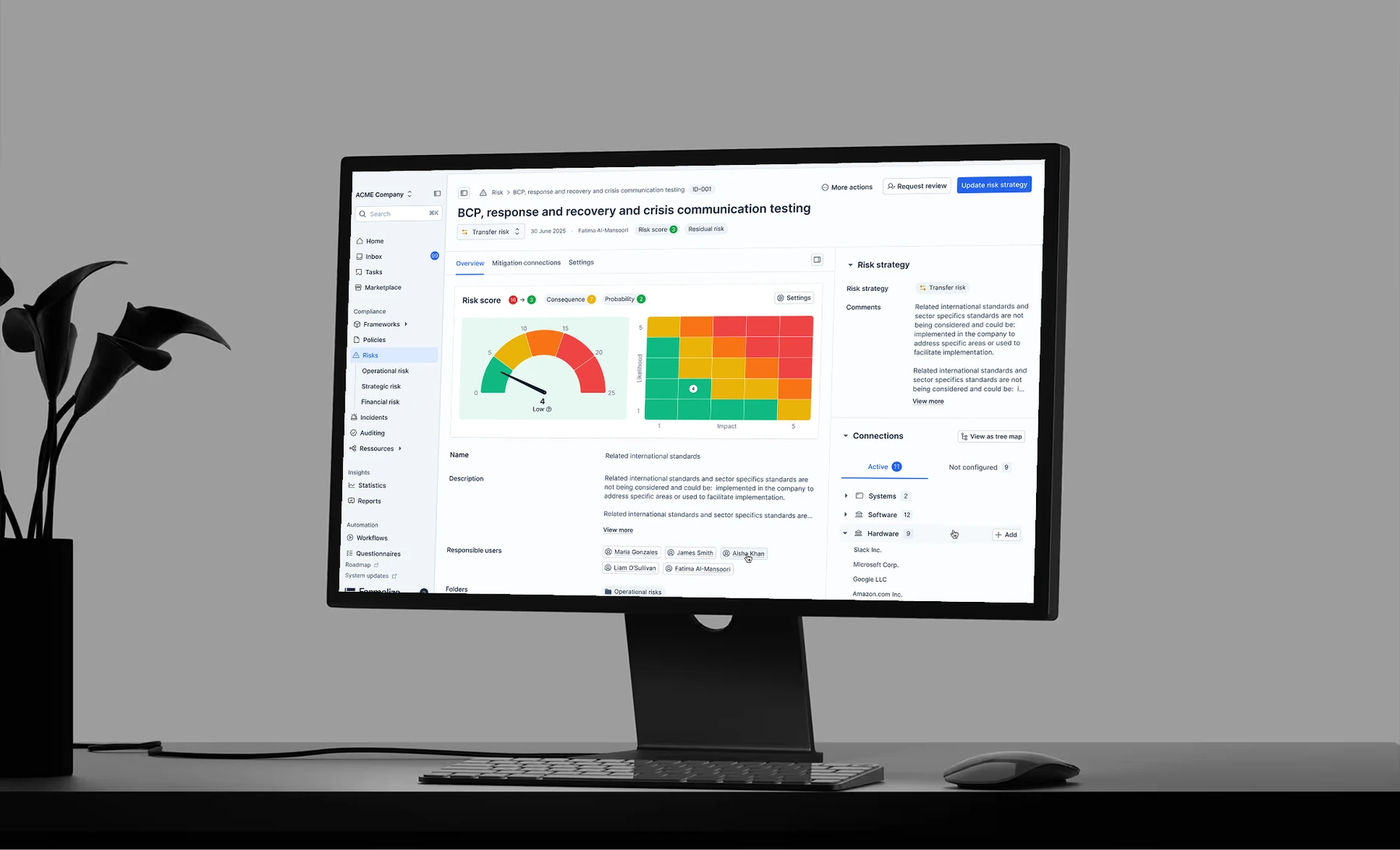
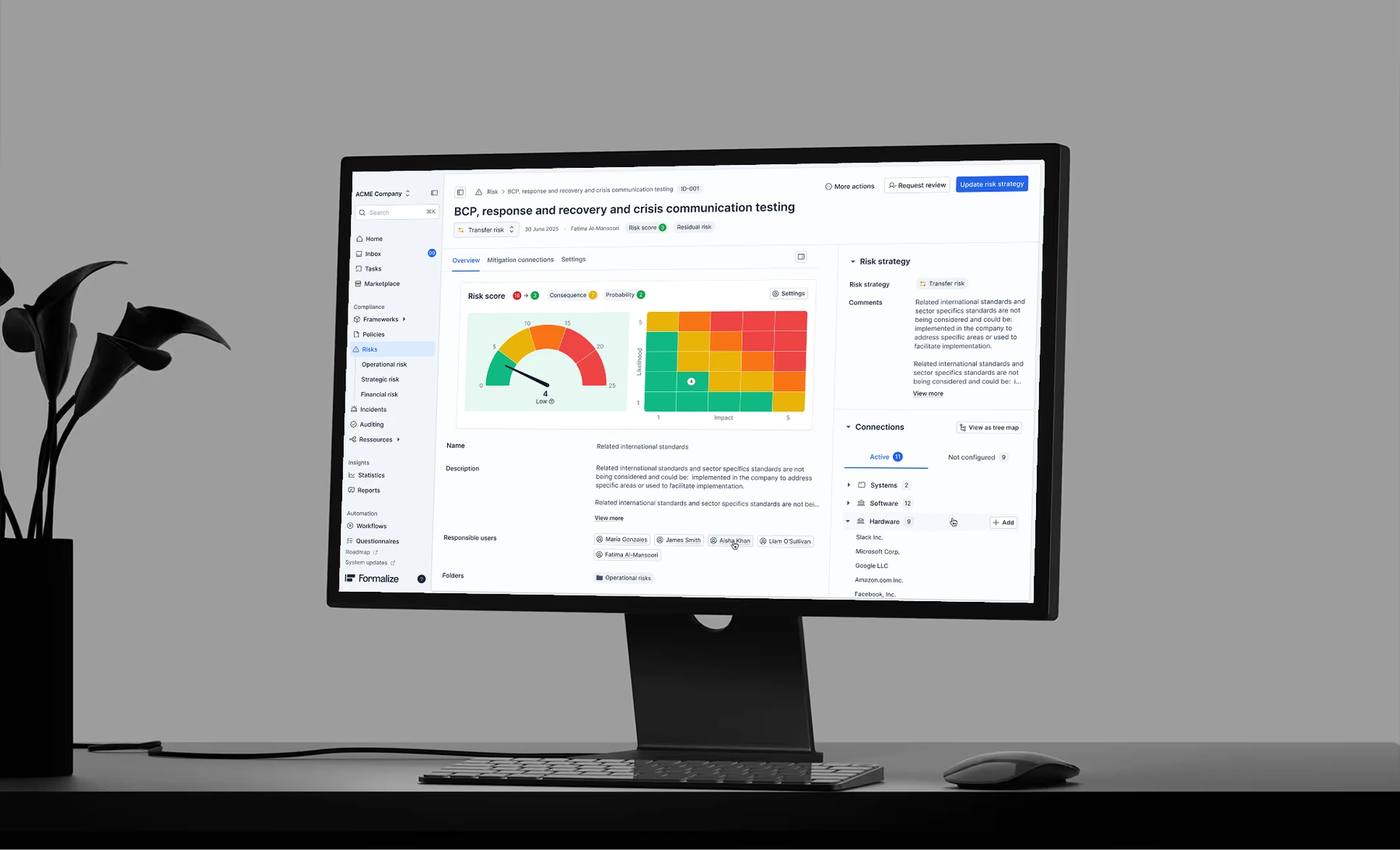
Formalize 04 into the film's last shot and the carousel's fourth
The new 4320x2700 source replaces plate-4, which the film's closing shot uses,
and formalize-scene-04, the fourth image in the case carousel. The carousel
image is a photographic monitor mockup with the UI warped into the screen, not
a screenshot, so it was rebuilt through tools/mockup-composite.py from the new
plate rather than swapped — that is what the tool's per-output filter is for.
Plate stays to spec: 1536x960, 16:10, lossless.

Also in here, from chasing the Experience panel's animation: the first row was
loading main-photo-mikkel.webp — 1600x3272, 5.2MP, 257KB — to fill a 150px
box, while the other eleven rows were already 528px. It now has its own 528px
crop at 15KB, taken at the same object-position the CSS shows so the framing is
unchanged. Every row image gains decoding="async" and its true intrinsic size.

That is a real saving but it is NOT what makes the panel open badly, and no fix
for that is in this commit. Measured: the expand runs two frames in 830ms while
a case film is building, and a clean eased curve with the films removed —
collapsing only ever looked better because by then the building was done. Three
attempts at deferring that work all measured no better and were reverted.

diff --git a/index.html b/index.html
@@ -429,7 +429,7 @@
           <span class="xp__role">Product design and strategy</span>
           <span class="xp__meta"><span class="xp__where">Freelance</span><svg class="xp__chev" width="14" height="14" viewBox="0 0 16 16" fill="none" aria-hidden="true"><path d="M4 6l4 4 4-4" stroke="currentColor" stroke-width="1.5" stroke-linecap="round" stroke-linejoin="round"/></svg></span>
         </button>
-        <div class="xp__detail"><div><div class="xp__body"><img class="xp__media" src="public/images/main/main-photo-mikkel.webp" alt="" loading="lazy"><div class="xp__copy"><p class="xp__lead">Hands-on product design and product strategy — joining product teams directly, on a freelance or fractional basis.</p><p class="xp__text">I work hands-on across product design and product strategy — discovery and framing, concepts, high-fidelity design, and design systems. After 8 years leading design teams, most recently building the function from 0 at Formalize and leading a team of 12 at Maersk, I now take that work on directly rather than through a team. I am used to joining an existing setup and working the way it already works: the stack, the rituals and the constraints as they are, with very little onboarding. Engagements run from a few weeks on a specific problem to ongoing fractional design leadership.</p></div></div></div></div>
+        <div class="xp__detail"><div><div class="xp__body"><img class="xp__media" src="public/images/main/main-exp-freelance.webp" alt="" loading="lazy" decoding="async" width="528" height="528"><div class="xp__copy"><p class="xp__lead">Hands-on product design and product strategy — joining product teams directly, on a freelance or fractional basis.</p><p class="xp__text">I work hands-on across product design and product strategy — discovery and framing, concepts, high-fidelity design, and design systems. After 8 years leading design teams, most recently building the function from 0 at Formalize and leading a team of 12 at Maersk, I now take that work on directly rather than through a team. I am used to joining an existing setup and working the way it already works: the stack, the rituals and the constraints as they are, with very little onboarding. Engagements run from a few weeks on a specific problem to ongoing fractional design leadership.</p></div></div></div></div>
       </div>
       <div class="xp">
         <button class="xp__row" type="button" aria-expanded="false">
@@ -438,7 +438,7 @@
           <span class="xp__role">Head of Product Design</span>
           <span class="xp__meta"><span class="xp__where">Startup</span><svg class="xp__chev" width="14" height="14" viewBox="0 0 16 16" fill="none" aria-hidden="true"><path d="M4 6l4 4 4-4" stroke="currentColor" stroke-width="1.5" stroke-linecap="round" stroke-linejoin="round"/></svg></span>
         </button>
-        <div class="xp__detail"><div><div class="xp__body"><img class="xp__media" src="public/images/main/main-exp-formalize.webp" alt="" loading="lazy"><div class="xp__copy"><p class="xp__lead">Building the design function from 0 at a hyper-growth compliance startup.</p><p class="xp__text">Joined as Formalize's first design leader, inheriting 2 products built fast and engineering-first — no PMs, no triads, and a previous design-system attempt that hadn't stuck. Grew the team from 0 to 4, embedded designers directly in product triads, and rebuilt the design system with engineering this time, so what got designed is what actually shipped. Helped craft the pitch behind a €30M Series B and led the internal deck that aligned the company on 2025 product direction. 2 years in, design moved from an occasional freelance favour to fully embedded — and Whistleblower Software became the #1-rated platform on G2.</p></div></div></div></div>
+        <div class="xp__detail"><div><div class="xp__body"><img class="xp__media" src="public/images/main/main-exp-formalize.webp" alt="" loading="lazy" decoding="async" width="528" height="528"><div class="xp__copy"><p class="xp__lead">Building the design function from 0 at a hyper-growth compliance startup.</p><p class="xp__text">Joined as Formalize's first design leader, inheriting 2 products built fast and engineering-first — no PMs, no triads, and a previous design-system attempt that hadn't stuck. Grew the team from 0 to 4, embedded designers directly in product triads, and rebuilt the design system with engineering this time, so what got designed is what actually shipped. Helped craft the pitch behind a €30M Series B and led the internal deck that aligned the company on 2025 product direction. 2 years in, design moved from an occasional freelance favour to fully embedded — and Whistleblower Software became the #1-rated platform on G2.</p></div></div></div></div>
       </div>
       <div class="xp">
         <button class="xp__row" type="button" aria-expanded="false">
@@ -447,7 +447,7 @@
           <span class="xp__role">Lead UX Designer</span>
           <span class="xp__meta"><span class="xp__where">Enterprise</span><svg class="xp__chev" width="14" height="14" viewBox="0 0 16 16" fill="none" aria-hidden="true"><path d="M4 6l4 4 4-4" stroke="currentColor" stroke-width="1.5" stroke-linecap="round" stroke-linejoin="round"/></svg></span>
         </button>
-        <div class="xp__detail"><div><div class="xp__body"><img class="xp__media" src="public/images/main/main-exp-maersk.webp" alt="" loading="lazy"><div class="xp__copy"><p class="xp__lead">Led a team of 12 designers across one of the world's most complex supply chain platforms — 20+ product teams, 260 engineers.</p><p class="xp__text">Led UX across a platform serving 350+ people across 20+ product teams and 260 engineers. Grew the design function from 6 to 12 in just 6 months and introduced a new organisational structure across 3 sub-teams: Product Design, Design System, and Research. Championed earlier involvement of UX in problem-solving, elevated design standards across the organisation, and initiated the "Flea Market" design system to modernise Maersk's existing framework. Successfully advocated for UX moving from under Technology into Product — a structural shift that changed how design influenced decisions platform-wide. Maersk was named one of Fast Company's Most Innovative Companies in Design 2023.</p></div></div></div></div>
+        <div class="xp__detail"><div><div class="xp__body"><img class="xp__media" src="public/images/main/main-exp-maersk.webp" alt="" loading="lazy" decoding="async" width="528" height="528"><div class="xp__copy"><p class="xp__lead">Led a team of 12 designers across one of the world's most complex supply chain platforms — 20+ product teams, 260 engineers.</p><p class="xp__text">Led UX across a platform serving 350+ people across 20+ product teams and 260 engineers. Grew the design function from 6 to 12 in just 6 months and introduced a new organisational structure across 3 sub-teams: Product Design, Design System, and Research. Championed earlier involvement of UX in problem-solving, elevated design standards across the organisation, and initiated the "Flea Market" design system to modernise Maersk's existing framework. Successfully advocated for UX moving from under Technology into Product — a structural shift that changed how design influenced decisions platform-wide. Maersk was named one of Fast Company's Most Innovative Companies in Design 2023.</p></div></div></div></div>
       </div>
       <div class="xp">
         <button class="xp__row" type="button" aria-expanded="false">
@@ -456,7 +456,7 @@
           <span class="xp__role">Head of UX</span>
           <span class="xp__meta"><span class="xp__where">Consumer</span><svg class="xp__chev" width="14" height="14" viewBox="0 0 16 16" fill="none" aria-hidden="true"><path d="M4 6l4 4 4-4" stroke="currentColor" stroke-width="1.5" stroke-linecap="round" stroke-linejoin="round"/></svg></span>
         </button>
-        <div class="xp__detail"><div><div class="xp__body"><img class="xp__media" src="public/images/main/main-exp-sleepacy.webp" alt="" loading="lazy"><div class="xp__copy"><p class="xp__lead">Transformed a global bedding brand into a digital-first health and wellness company.</p><p class="xp__text">Brought in as Head of UX as Hilding Anders Group transformed its Sleepacy brand from a global mattress manufacturer into a digital-first health and wellness company. Managed digital experience across both SLEEPACY (Sleep Health) and Carpe Diem Beds (luxury). Conceptualised and designed an e-commerce site from scratch, led the "Sleep Services" app from concept through to validated prototypes, and directed external design and development agencies to align on the vision for digital offerings.</p></div></div></div></div>
+        <div class="xp__detail"><div><div class="xp__body"><img class="xp__media" src="public/images/main/main-exp-sleepacy.webp" alt="" loading="lazy" decoding="async" width="528" height="528"><div class="xp__copy"><p class="xp__lead">Transformed a global bedding brand into a digital-first health and wellness company.</p><p class="xp__text">Brought in as Head of UX as Hilding Anders Group transformed its Sleepacy brand from a global mattress manufacturer into a digital-first health and wellness company. Managed digital experience across both SLEEPACY (Sleep Health) and Carpe Diem Beds (luxury). Conceptualised and designed an e-commerce site from scratch, led the "Sleep Services" app from concept through to validated prototypes, and directed external design and development agencies to align on the vision for digital offerings.</p></div></div></div></div>
       </div>
       <div class="xp">
         <button class="xp__row" type="button" aria-expanded="false">
@@ -465,7 +465,7 @@
           <span class="xp__role">Experience Design Director</span>
           <span class="xp__meta"><span class="xp__where">Agency</span><svg class="xp__chev" width="14" height="14" viewBox="0 0 16 16" fill="none" aria-hidden="true"><path d="M4 6l4 4 4-4" stroke="currentColor" stroke-width="1.5" stroke-linecap="round" stroke-linejoin="round"/></svg></span>
         </button>
-        <div class="xp__detail"><div><div class="xp__body"><img class="xp__media" src="public/images/main/main-exp-1508.webp" alt="" loading="lazy"><div class="xp__copy"><p class="xp__lead">Led UX strategy across major Danish accounts — Finansforbundet, Club Matas, Dansk Metal.</p><p class="xp__text">Led UX and strategy across 1508's most prominent accounts. Led UX for Club Matas' new customer-facing app and loyalty programme — now Denmark's largest loyalty club with 1.5M members and a 4.6 App Store rating (32,800+ reviews). Drove Finansforbundet's full digital transformation — conceptualising, designing, and optimising 5+ new digital products and thinking them into a coherent ecosystem for 50,000 members. Designed the Dansk Metal job-finding app — used weekly by 66% of all unemployed members, with an iOS rating of 4.0.</p></div></div></div></div>
+        <div class="xp__detail"><div><div class="xp__body"><img class="xp__media" src="public/images/main/main-exp-1508.webp" alt="" loading="lazy" decoding="async" width="528" height="528"><div class="xp__copy"><p class="xp__lead">Led UX strategy across major Danish accounts — Finansforbundet, Club Matas, Dansk Metal.</p><p class="xp__text">Led UX and strategy across 1508's most prominent accounts. Led UX for Club Matas' new customer-facing app and loyalty programme — now Denmark's largest loyalty club with 1.5M members and a 4.6 App Store rating (32,800+ reviews). Drove Finansforbundet's full digital transformation — conceptualising, designing, and optimising 5+ new digital products and thinking them into a coherent ecosystem for 50,000 members. Designed the Dansk Metal job-finding app — used weekly by 66% of all unemployed members, with an iOS rating of 4.0.</p></div></div></div></div>
       </div>
       <div class="xp-more"><div>
 <div class="xp xp--more">
@@ -475,7 +475,7 @@
           <span class="xp__role">Senior Experience Strategist</span>
           <span class="xp__meta"><span class="xp__where">Agency</span><svg class="xp__chev" width="14" height="14" viewBox="0 0 16 16" fill="none" aria-hidden="true"><path d="M4 6l4 4 4-4" stroke="currentColor" stroke-width="1.5" stroke-linecap="round" stroke-linejoin="round"/></svg></span>
         </button>
-        <div class="xp__detail"><div><div class="xp__body"><img class="xp__media" src="public/images/main/main-exp-firstborn.webp" alt="" loading="lazy"><div class="xp__copy"><p class="xp__lead">6 months in NYC at one of the US's top independent digital agencies — global brands, high craft.</p><p class="xp__text">7 months in New York at Firstborn — named #7 best US design studio, known for purpose-driven craft with forward-looking global brands. Worked between the UX and strategy teams to get them to a shared idea of what strategic design meant in practice. Led a new business venture: a skincare platform that gave each customer a skin ID to narrow down what to buy. Conducted comprehensive UX research and conversion optimisation for Ted Baker's e-commerce platform, and delivered internal training on design thinking, agile methodologies, and hypothesis-driven design.</p></div></div></div></div>
+        <div class="xp__detail"><div><div class="xp__body"><img class="xp__media" src="public/images/main/main-exp-firstborn.webp" alt="" loading="lazy" decoding="async" width="528" height="528"><div class="xp__copy"><p class="xp__lead">6 months in NYC at one of the US's top independent digital agencies — global brands, high craft.</p><p class="xp__text">7 months in New York at Firstborn — named #7 best US design studio, known for purpose-driven craft with forward-looking global brands. Worked between the UX and strategy teams to get them to a shared idea of what strategic design meant in practice. Led a new business venture: a skincare platform that gave each customer a skin ID to narrow down what to buy. Conducted comprehensive UX research and conversion optimisation for Ted Baker's e-commerce platform, and delivered internal training on design thinking, agile methodologies, and hypothesis-driven design.</p></div></div></div></div>
       </div>
       <div class="xp xp--more">
         <button class="xp__row" type="button" aria-expanded="false">
@@ -484,7 +484,7 @@
           <span class="xp__role">Senior Strategist</span>
           <span class="xp__meta"><span class="xp__where">Agency</span><svg class="xp__chev" width="14" height="14" viewBox="0 0 16 16" fill="none" aria-hidden="true"><path d="M4 6l4 4 4-4" stroke="currentColor" stroke-width="1.5" stroke-linecap="round" stroke-linejoin="round"/></svg></span>
         </button>
-        <div class="xp__detail"><div><div class="xp__body"><img class="xp__media" src="public/images/main/main-exp-noa.webp" alt="" loading="lazy"><div class="xp__copy"><p class="xp__lead">4 years across strategy and UX — Danske Bank, Varier, and growing the agency from the ground up.</p><p class="xp__text">4 years translating deep human insights into new business concepts and digital products. Led UX and strategy for Danske Bank's "Pocket Money" app — a pioneering debit card and money management solution for children aged 8–14, the first of its kind from a major Danish bank. Directed UX for the Varier active lifestyle app, which won the Experimental award at the Danish Digital Awards 2016 and was showcased at IFA Berlin — the world's largest consumer tech trade show. Instrumental in growing the agency (then Hello Group) from 20–30 people to 65+ UX experts, culminating in the merger with Great Works and joining The North Alliance consortium of the top Nordic digital agencies.</p></div></div></div></div>
+        <div class="xp__detail"><div><div class="xp__body"><img class="xp__media" src="public/images/main/main-exp-noa.webp" alt="" loading="lazy" decoding="async" width="528" height="528"><div class="xp__copy"><p class="xp__lead">4 years across strategy and UX — Danske Bank, Varier, and growing the agency from the ground up.</p><p class="xp__text">4 years translating deep human insights into new business concepts and digital products. Led UX and strategy for Danske Bank's "Pocket Money" app — a pioneering debit card and money management solution for children aged 8–14, the first of its kind from a major Danish bank. Directed UX for the Varier active lifestyle app, which won the Experimental award at the Danish Digital Awards 2016 and was showcased at IFA Berlin — the world's largest consumer tech trade show. Instrumental in growing the agency (then Hello Group) from 20–30 people to 65+ UX experts, culminating in the merger with Great Works and joining The North Alliance consortium of the top Nordic digital agencies.</p></div></div></div></div>
       </div>
       <div class="xp xp--more">
         <button class="xp__row" type="button" aria-expanded="false">
@@ -493,7 +493,7 @@
           <span class="xp__role">Digital Advisor</span>
           <span class="xp__meta"><span class="xp__where">Agency</span><svg class="xp__chev" width="14" height="14" viewBox="0 0 16 16" fill="none" aria-hidden="true"><path d="M4 6l4 4 4-4" stroke="currentColor" stroke-width="1.5" stroke-linecap="round" stroke-linejoin="round"/></svg></span>
         </button>
-        <div class="xp__detail"><div><div class="xp__body"><img class="xp__media" src="public/images/main/main-exp-nodes.webp" alt="" loading="lazy"><div class="xp__copy"><p class="xp__lead">Early career role in digital strategy and UX — global brands, mobile, customer experience.</p><p class="xp__text">Worked closely with the CEO and Managing Partner to drive business development and lead major new business pitches. Advised clients on customer experience strategy and mobile app technology. Designed the UX for a platform facilitating the BMW i3 launch in partnership with YouTube. Developed customer support concepts and a child safety app concept for Danish telco TDC. Hello Great Works later invested a 25% stake in Nodes — which led directly to being headhunted into what became NoA Ignite.</p></div></div></div></div>
+        <div class="xp__detail"><div><div class="xp__body"><img class="xp__media" src="public/images/main/main-exp-nodes.webp" alt="" loading="lazy" decoding="async" width="528" height="528"><div class="xp__copy"><p class="xp__lead">Early career role in digital strategy and UX — global brands, mobile, customer experience.</p><p class="xp__text">Worked closely with the CEO and Managing Partner to drive business development and lead major new business pitches. Advised clients on customer experience strategy and mobile app technology. Designed the UX for a platform facilitating the BMW i3 launch in partnership with YouTube. Developed customer support concepts and a child safety app concept for Danish telco TDC. Hello Great Works later invested a 25% stake in Nodes — which led directly to being headhunted into what became NoA Ignite.</p></div></div></div></div>
       </div>
       <div class="xp xp--more">
         <button class="xp__row" type="button" aria-expanded="false">
@@ -502,7 +502,7 @@
           <span class="xp__role">Creative Project Manager</span>
           <span class="xp__meta"><span class="xp__where">Agency</span><svg class="xp__chev" width="14" height="14" viewBox="0 0 16 16" fill="none" aria-hidden="true"><path d="M4 6l4 4 4-4" stroke="currentColor" stroke-width="1.5" stroke-linecap="round" stroke-linejoin="round"/></svg></span>
         </button>
-        <div class="xp__detail"><div><div class="xp__body"><img class="xp__media" src="public/images/main/main-exp-thinkhouse.webp" alt="" loading="lazy"><div class="xp__copy"><p class="xp__lead">Digital campaign strategy and production for Coca-Cola, Carlsberg, Tuborg and Mars.</p><p class="xp__text">Led digital campaign strategy and creative production for major FMCG brands, bridging offline events with digital and social execution. Designed the presentation for the Somersby Cider launch at the National Carlsberg Sales Meeting — the largest gathering of all Carlsberg brands and sales representatives. Campaign work across Coca-Cola, Carlsberg, Tuborg, Mars and Snickers.</p></div></div></div></div>
+        <div class="xp__detail"><div><div class="xp__body"><img class="xp__media" src="public/images/main/main-exp-thinkhouse.webp" alt="" loading="lazy" decoding="async" width="528" height="360"><div class="xp__copy"><p class="xp__lead">Digital campaign strategy and production for Coca-Cola, Carlsberg, Tuborg and Mars.</p><p class="xp__text">Led digital campaign strategy and creative production for major FMCG brands, bridging offline events with digital and social execution. Designed the presentation for the Somersby Cider launch at the National Carlsberg Sales Meeting — the largest gathering of all Carlsberg brands and sales representatives. Campaign work across Coca-Cola, Carlsberg, Tuborg, Mars and Snickers.</p></div></div></div></div>
       </div>
       <div class="xp xp--more">
         <button class="xp__row" type="button" aria-expanded="false">
@@ -511,7 +511,7 @@
           <span class="xp__role">Co-Founder</span>
           <span class="xp__meta"><span class="xp__where">Startup</span><svg class="xp__chev" width="14" height="14" viewBox="0 0 16 16" fill="none" aria-hidden="true"><path d="M4 6l4 4 4-4" stroke="currentColor" stroke-width="1.5" stroke-linecap="round" stroke-linejoin="round"/></svg></span>
         </button>
-        <div class="xp__detail"><div><div class="xp__body"><img class="xp__media" src="public/images/main/main-exp-riotbernard.webp" alt="" loading="lazy"><div class="xp__copy"><p class="xp__lead">Co-founded an online-only eyewear brand with a buy-one-donate-one model, built from Shanghai.</p><p class="xp__text">Co-founded an online-only prescription eyewear brand with a buy-one-donate-one model, taking on Denmark's conventional optical market. Led brand, marketing and logistics through launch from Shanghai, established a local optician partnership, and sourced the first collection on the ground in China.</p></div></div></div></div>
+        <div class="xp__detail"><div><div class="xp__body"><img class="xp__media" src="public/images/main/main-exp-riotbernard.webp" alt="" loading="lazy" decoding="async" width="528" height="360"><div class="xp__copy"><p class="xp__lead">Co-founded an online-only eyewear brand with a buy-one-donate-one model, built from Shanghai.</p><p class="xp__text">Co-founded an online-only prescription eyewear brand with a buy-one-donate-one model, taking on Denmark's conventional optical market. Led brand, marketing and logistics through launch from Shanghai, established a local optician partnership, and sourced the first collection on the ground in China.</p></div></div></div></div>
       </div>
       <div class="xp xp--more">
         <button class="xp__row" type="button" aria-expanded="false">
@@ -520,7 +520,7 @@
           <span class="xp__role">Intern</span>
           <span class="xp__meta"><span class="xp__where">Agency</span><svg class="xp__chev" width="14" height="14" viewBox="0 0 16 16" fill="none" aria-hidden="true"><path d="M4 6l4 4 4-4" stroke="currentColor" stroke-width="1.5" stroke-linecap="round" stroke-linejoin="round"/></svg></span>
         </button>
-        <div class="xp__detail"><div><div class="xp__body"><img class="xp__media" src="public/images/main/main-exp-wolffolins.webp" alt="" loading="lazy"><div class="xp__copy"><p class="xp__lead">4 months in London on brand work for American Express and Skype.</p><p class="xp__text">Interned at a brand consultancy, on client work for American Express and Skype. Built creative tools, ran co-creation workshops, and worked on concept development and research.</p></div></div></div></div>
+        <div class="xp__detail"><div><div class="xp__body"><img class="xp__media" src="public/images/main/main-exp-wolffolins.webp" alt="" loading="lazy" decoding="async" width="528" height="360"><div class="xp__copy"><p class="xp__lead">4 months in London on brand work for American Express and Skype.</p><p class="xp__text">Interned at a brand consultancy, on client work for American Express and Skype. Built creative tools, ran co-creation workshops, and worked on concept development and research.</p></div></div></div></div>
       </div>
       <div class="xp xp--more">
         <button class="xp__row" type="button" aria-expanded="false">
@@ -529,7 +529,7 @@
           <span class="xp__role">Student</span>
           <span class="xp__meta"><span class="xp__where">Education</span><svg class="xp__chev" width="14" height="14" viewBox="0 0 16 16" fill="none" aria-hidden="true"><path d="M4 6l4 4 4-4" stroke="currentColor" stroke-width="1.5" stroke-linecap="round" stroke-linejoin="round"/></svg></span>
         </button>
-        <div class="xp__detail"><div><div class="xp__body"><img class="xp__media" src="public/images/main/main-exp-kaospilots.webp" alt="" loading="lazy"><div class="xp__copy"><p class="xp__lead">3-year hybrid business and design school built on leadership, entrepreneurship and real projects.</p><p class="xp__text">A 3-year hybrid business, design and leadership programme, ranked among the world's most innovative schools by BusinessWeek and FastCompany. Focused on leadership, entrepreneurship and project-based learning in real-world contexts — which is where both the Wolff Olins internship and Riot Bernard came from, each running inside these 3 years.</p></div></div></div></div>
+        <div class="xp__detail"><div><div class="xp__body"><img class="xp__media" src="public/images/main/main-exp-kaospilots.webp" alt="" loading="lazy" decoding="async" width="528" height="360"><div class="xp__copy"><p class="xp__lead">3-year hybrid business and design school built on leadership, entrepreneurship and real projects.</p><p class="xp__text">A 3-year hybrid business, design and leadership programme, ranked among the world's most innovative schools by BusinessWeek and FastCompany. Focused on leadership, entrepreneurship and project-based learning in real-world contexts — which is where both the Wolff Olins internship and Riot Bernard came from, each running inside these 3 years.</p></div></div></div></div>
       </div>
       </div></div>
     </div>
